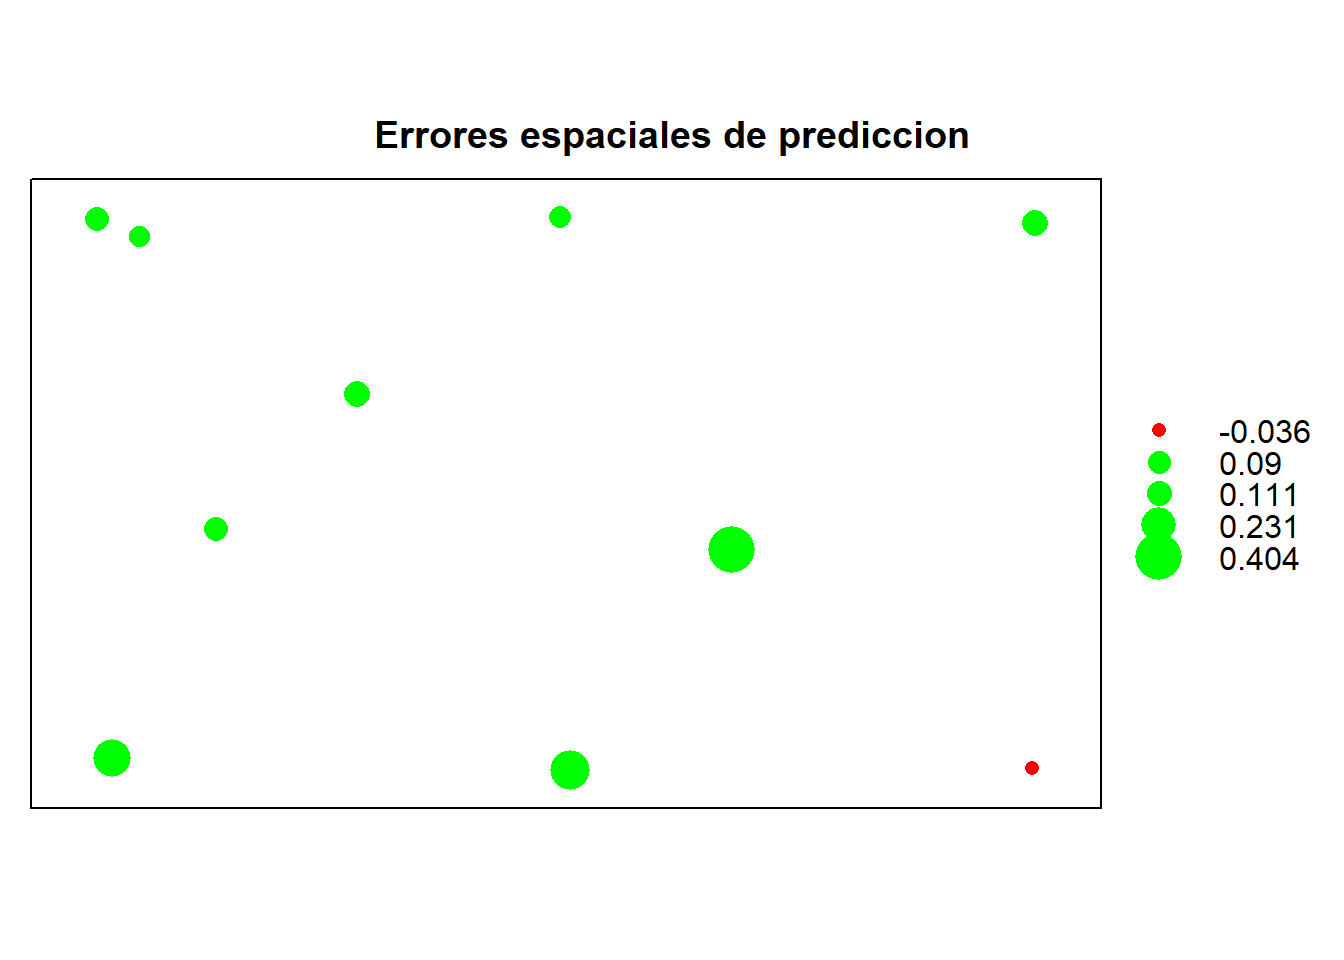
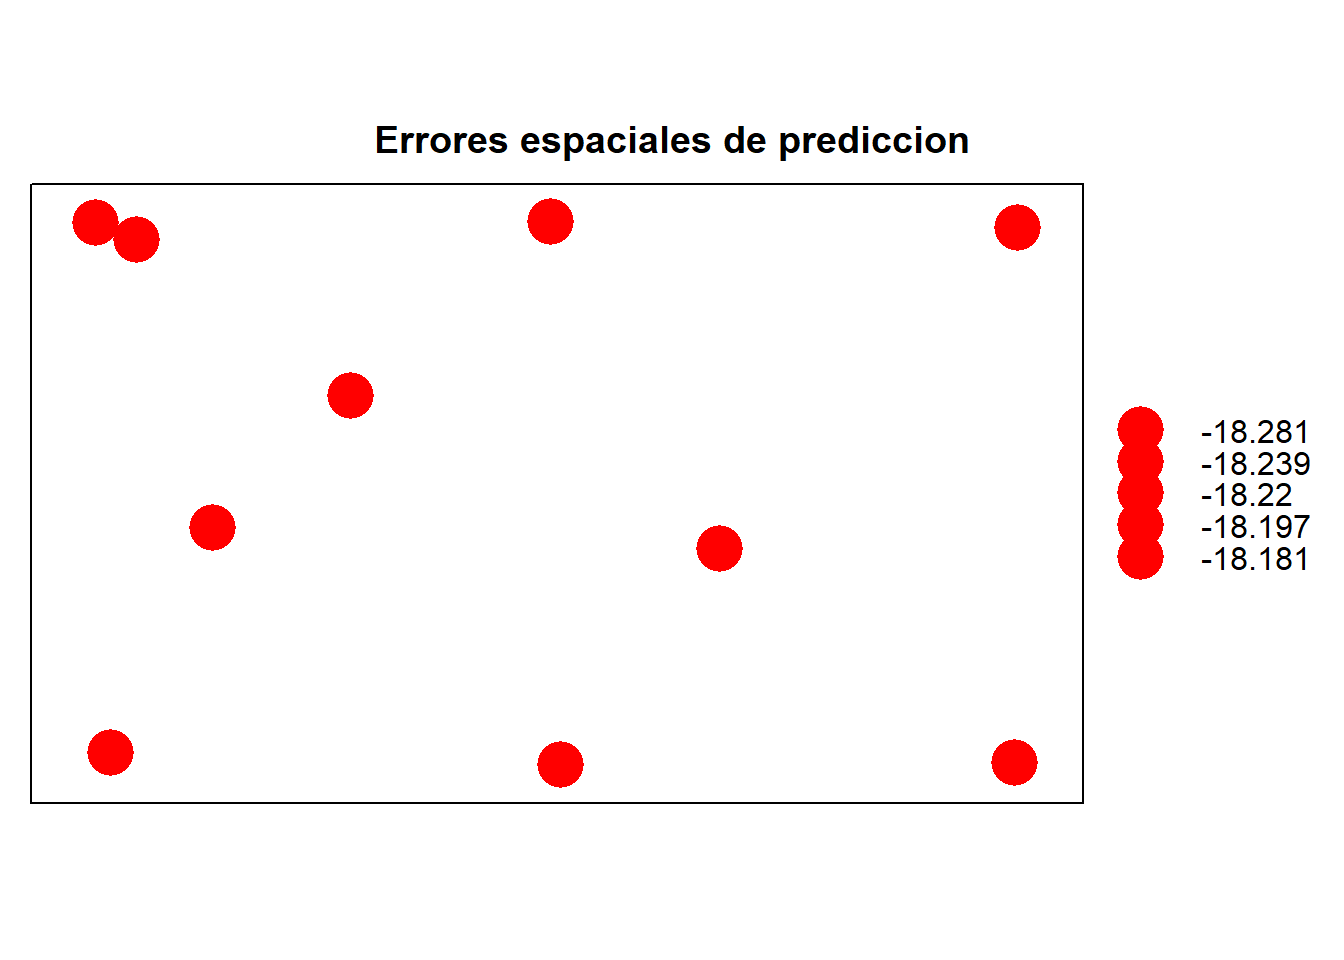
dem diego

diff --git a/content/post/2020-05-24-argentina.html b/content/post/2020-05-24-argentina.html
@@ -20,7 +20,8 @@ tags: []
 <ul>
 <li>Cargar capas necesarias:</li>
 </ul>
-<pre class="r"><code>dsm &lt;- raster(&quot;C:/Proyectos/Diego/PAE/DEM_AG_VS.tif&quot;)
+<pre class="r"><code>#dsm &lt;- raster(&quot;C:/Proyectos/Diego/PAE/DEM_AG_VS.tif&quot;) #penultimo jose
+dsm &lt;- raster(&quot;C:/Proyectos/Diego/PAE/TG3.TIF&quot;) #ultimo diego
 puntos &lt;- read.csv(&quot;C:/Proyectos/Diego/PAE/Pcontrol.csv&quot;)
 puntos_sp &lt;- puntos
 coordinates(puntos_sp) &lt;- ~ Este + Norte</code></pre>
@@ -37,7 +38,7 @@ crs(puntos_sp);</code></pre>
 <pre class="r"><code>crs(dsm);</code></pre>
 <pre><code>## CRS arguments:
 ##  +proj=tmerc +lat_0=-90 +lon_0=-69 +k=1 +x_0=2500000 +y_0=0 +ellps=WGS84
-## +towgs84=0,0,0,0,0,0,0 +units=m +no_defs</code></pre>
+## +units=m +no_defs</code></pre>
 <ul>
 <li>Extracción de datos de alturas del MDE:</li>
 </ul>
@@ -51,12 +52,12 @@ crs(puntos_sp);</code></pre>
 <li>Estadísticos de las alturas en los puntos de control, obtenidas del MDE:</li>
 </ul>
 <pre><code>##    Min. 1st Qu.  Median    Mean 3rd Qu.    Max. 
-##   240.7   243.7   248.4   247.9   251.8   254.1</code></pre>
+##   222.4   225.4   230.0   229.5   233.4   235.6</code></pre>
 <ul>
 <li>Estadísticos de los errores, diferencias o residuos entre las alturas obtenidas por ambos metodos (puntos de control y MDE):</li>
 </ul>
-<pre><code>##     Min.  1st Qu.   Median     Mean  3rd Qu.     Max. 
-## -0.03614  0.09034  0.11081  0.15481  0.23086  0.40397</code></pre>
+<pre><code>##    Min. 1st Qu.  Median    Mean 3rd Qu.    Max. 
+##  -18.28  -18.24  -18.22  -18.22  -18.20  -18.18</code></pre>
 <p><em>Tabla de alturas:</em></p>
 <table>
 <caption><span id="tab:unnamed-chunk-12">Table 1: </span>Diferencias de alturas.</caption>
@@ -72,70 +73,70 @@ crs(puntos_sp);</code></pre>
 <tr class="odd">
 <td align="right">1</td>
 <td align="right">246.014</td>
-<td align="right">246.1321</td>
-<td align="right">0.1180953</td>
+<td align="right">227.8197</td>
+<td align="right">-18.19433</td>
 </tr>
 <tr class="even">
 <td align="right">2</td>
 <td align="right">247.855</td>
-<td align="right">248.2590</td>
-<td align="right">0.4039722</td>
+<td align="right">229.6736</td>
+<td align="right">-18.18142</td>
 </tr>
 <tr class="odd">
 <td align="right">3</td>
 <td align="right">253.812</td>
-<td align="right">254.1125</td>
-<td align="right">0.3005183</td>
+<td align="right">235.6236</td>
+<td align="right">-18.18845</td>
 </tr>
 <tr class="even">
 <td align="right">4</td>
 <td align="right">242.849</td>
-<td align="right">242.9353</td>
-<td align="right">0.0862570</td>
+<td align="right">224.6252</td>
+<td align="right">-18.22379</td>
 </tr>
 <tr class="odd">
 <td align="right">5</td>
 <td align="right">251.717</td>
-<td align="right">251.8383</td>
-<td align="right">0.1213484</td>
+<td align="right">233.4859</td>
+<td align="right">-18.23108</td>
 </tr>
 <tr class="even">
 <td align="right">6</td>
 <td align="right">240.606</td>
-<td align="right">240.7095</td>
-<td align="right">0.1035337</td>
+<td align="right">222.3645</td>
+<td align="right">-18.24151</td>
 </tr>
 <tr class="odd">
 <td align="right">7</td>
 <td align="right">253.842</td>
-<td align="right">253.8059</td>
-<td align="right">-0.0361376</td>
+<td align="right">235.6258</td>
+<td align="right">-18.21621</td>
 </tr>
 <tr class="even">
 <td align="right">8</td>
 <td align="right">251.451</td>
-<td align="right">251.7184</td>
-<td align="right">0.2673685</td>
+<td align="right">233.2001</td>
+<td align="right">-18.25091</td>
 </tr>
 <tr class="odd">
 <td align="right">9</td>
 <td align="right">248.530</td>
-<td align="right">248.6326</td>
-<td align="right">0.1025836</td>
+<td align="right">230.3232</td>
+<td align="right">-18.20676</td>
 </tr>
 <tr class="even">
 <td align="right">12</td>
 <td align="right">240.650</td>
-<td align="right">240.7305</td>
-<td align="right">0.0805298</td>
+<td align="right">222.3690</td>
+<td align="right">-18.28104</td>
 </tr>
 </tbody>
 </table>
 <ul>
 <li>Resultados de los cálculos de residuos o errores en las alturas:</li>
 </ul>
-<pre><code>##           Metodos        ME       MAE        MSE      RMSE   Err Q75      R2
-## 75% Fotogrametria 0.1548069 0.1620344 0.03901365 0.1975187 0.2308635 0.99939</code></pre>
+<pre><code>##           Metodos        ME      MAE      MSE     RMSE  Err Q75        R2
+## 75% Fotogrametria -18.22155 18.22155 332.0257 18.22157 18.23891 0.9999706</code></pre>
 <ul>
 <li><p>Gráfico de comparacion: <img src="/post/2020-05-24-argentina_files/figure-html/unnamed-chunk-15-1.png" width="672" /></p></li>
 <li><p>Gráfico de magnitud de residuos espaciales: <img src="/post/2020-05-24-argentina_files/figure-html/unnamed-chunk-16-1.png" width="672" /></p></li>

diff --git a/public/2020/05/24/argentina/index.html b/public/2020/05/24/argentina/index.html
@@ -88,7 +88,8 @@
 <ul>
 <li>Cargar capas necesarias:</li>
 </ul>
-<pre class="r"><code>dsm &lt;- raster(&quot;C:/Proyectos/Diego/PAE/DEM_AG_VS.tif&quot;)
+<pre class="r"><code>#dsm &lt;- raster(&quot;C:/Proyectos/Diego/PAE/DEM_AG_VS.tif&quot;) #penultimo jose
+dsm &lt;- raster(&quot;C:/Proyectos/Diego/PAE/TG3.TIF&quot;) #ultimo diego
 puntos &lt;- read.csv(&quot;C:/Proyectos/Diego/PAE/Pcontrol.csv&quot;)
 puntos_sp &lt;- puntos
 coordinates(puntos_sp) &lt;- ~ Este + Norte</code></pre>
@@ -105,7 +106,7 @@ crs(puntos_sp);</code></pre>
 <pre class="r"><code>crs(dsm);</code></pre>
 <pre><code>## CRS arguments:
 ##  +proj=tmerc +lat_0=-90 +lon_0=-69 +k=1 +x_0=2500000 +y_0=0 +ellps=WGS84
-## +towgs84=0,0,0,0,0,0,0 +units=m +no_defs</code></pre>
+## +units=m +no_defs</code></pre>
 <ul>
 <li>Extracción de datos de alturas del MDE:</li>
 </ul>
@@ -119,12 +120,12 @@ crs(puntos_sp);</code></pre>
 <li>Estadísticos de las alturas en los puntos de control, obtenidas del MDE:</li>
 </ul>
 <pre><code>##    Min. 1st Qu.  Median    Mean 3rd Qu.    Max. 
-##   240.7   243.7   248.4   247.9   251.8   254.1</code></pre>
+##   222.4   225.4   230.0   229.5   233.4   235.6</code></pre>
 <ul>
 <li>Estadísticos de los errores, diferencias o residuos entre las alturas obtenidas por ambos metodos (puntos de control y MDE):</li>
 </ul>
-<pre><code>##     Min.  1st Qu.   Median     Mean  3rd Qu.     Max. 
-## -0.03614  0.09034  0.11081  0.15481  0.23086  0.40397</code></pre>
+<pre><code>##    Min. 1st Qu.  Median    Mean 3rd Qu.    Max. 
+##  -18.28  -18.24  -18.22  -18.22  -18.20  -18.18</code></pre>
 <p><em>Tabla de alturas:</em></p>
 <table>
 <caption><span id="tab:unnamed-chunk-12">Table 1: </span>Diferencias de alturas.</caption>
@@ -140,70 +141,70 @@ crs(puntos_sp);</code></pre>
 <tr class="odd">
 <td align="right">1</td>
 <td align="right">246.014</td>
-<td align="right">246.1321</td>
-<td align="right">0.1180953</td>
+<td align="right">227.8197</td>
+<td align="right">-18.19433</td>
 </tr>
 <tr class="even">
 <td align="right">2</td>
 <td align="right">247.855</td>
-<td align="right">248.2590</td>
-<td align="right">0.4039722</td>
+<td align="right">229.6736</td>
+<td align="right">-18.18142</td>
 </tr>
 <tr class="odd">
 <td align="right">3</td>
 <td align="right">253.812</td>
-<td align="right">254.1125</td>
-<td align="right">0.3005183</td>
+<td align="right">235.6236</td>
+<td align="right">-18.18845</td>
 </tr>
 <tr class="even">
 <td align="right">4</td>
 <td align="right">242.849</td>
-<td align="right">242.9353</td>
-<td align="right">0.0862570</td>
+<td align="right">224.6252</td>
+<td align="right">-18.22379</td>
 </tr>
 <tr class="odd">
 <td align="right">5</td>
 <td align="right">251.717</td>
-<td align="right">251.8383</td>
-<td align="right">0.1213484</td>
+<td align="right">233.4859</td>
+<td align="right">-18.23108</td>
 </tr>
 <tr class="even">
 <td align="right">6</td>
 <td align="right">240.606</td>
-<td align="right">240.7095</td>
-<td align="right">0.1035337</td>
+<td align="right">222.3645</td>
+<td align="right">-18.24151</td>
 </tr>
 <tr class="odd">
 <td align="right">7</td>
 <td align="right">253.842</td>
-<td align="right">253.8059</td>
-<td align="right">-0.0361376</td>
+<td align="right">235.6258</td>
+<td align="right">-18.21621</td>
 </tr>
 <tr class="even">
 <td align="right">8</td>
 <td align="right">251.451</td>
-<td align="right">251.7184</td>
-<td align="right">0.2673685</td>
+<td align="right">233.2001</td>
+<td align="right">-18.25091</td>
 </tr>
 <tr class="odd">
 <td align="right">9</td>
 <td align="right">248.530</td>
-<td align="right">248.6326</td>
-<td align="right">0.1025836</td>
+<td align="right">230.3232</td>
+<td align="right">-18.20676</td>
 </tr>
 <tr class="even">
 <td align="right">12</td>
 <td align="right">240.650</td>
-<td align="right">240.7305</td>
-<td align="right">0.0805298</td>
+<td align="right">222.3690</td>
+<td align="right">-18.28104</td>
 </tr>
 </tbody>
 </table>
 <ul>
 <li>Resultados de los cálculos de residuos o errores en las alturas:</li>
 </ul>
-<pre><code>##           Metodos        ME       MAE        MSE      RMSE   Err Q75      R2
-## 75% Fotogrametria 0.1548069 0.1620344 0.03901365 0.1975187 0.2308635 0.99939</code></pre>
+<pre><code>##           Metodos        ME      MAE      MSE     RMSE  Err Q75        R2
+## 75% Fotogrametria -18.22155 18.22155 332.0257 18.22157 18.23891 0.9999706</code></pre>
 <ul>
 <li><p>Gráfico de comparacion: <img src="/post/2020-05-24-argentina_files/figure-html/unnamed-chunk-15-1.png" width="672" /></p></li>
 <li><p>Gráfico de magnitud de residuos espaciales: <img src="/post/2020-05-24-argentina_files/figure-html/unnamed-chunk-16-1.png" width="672" /></p></li>
